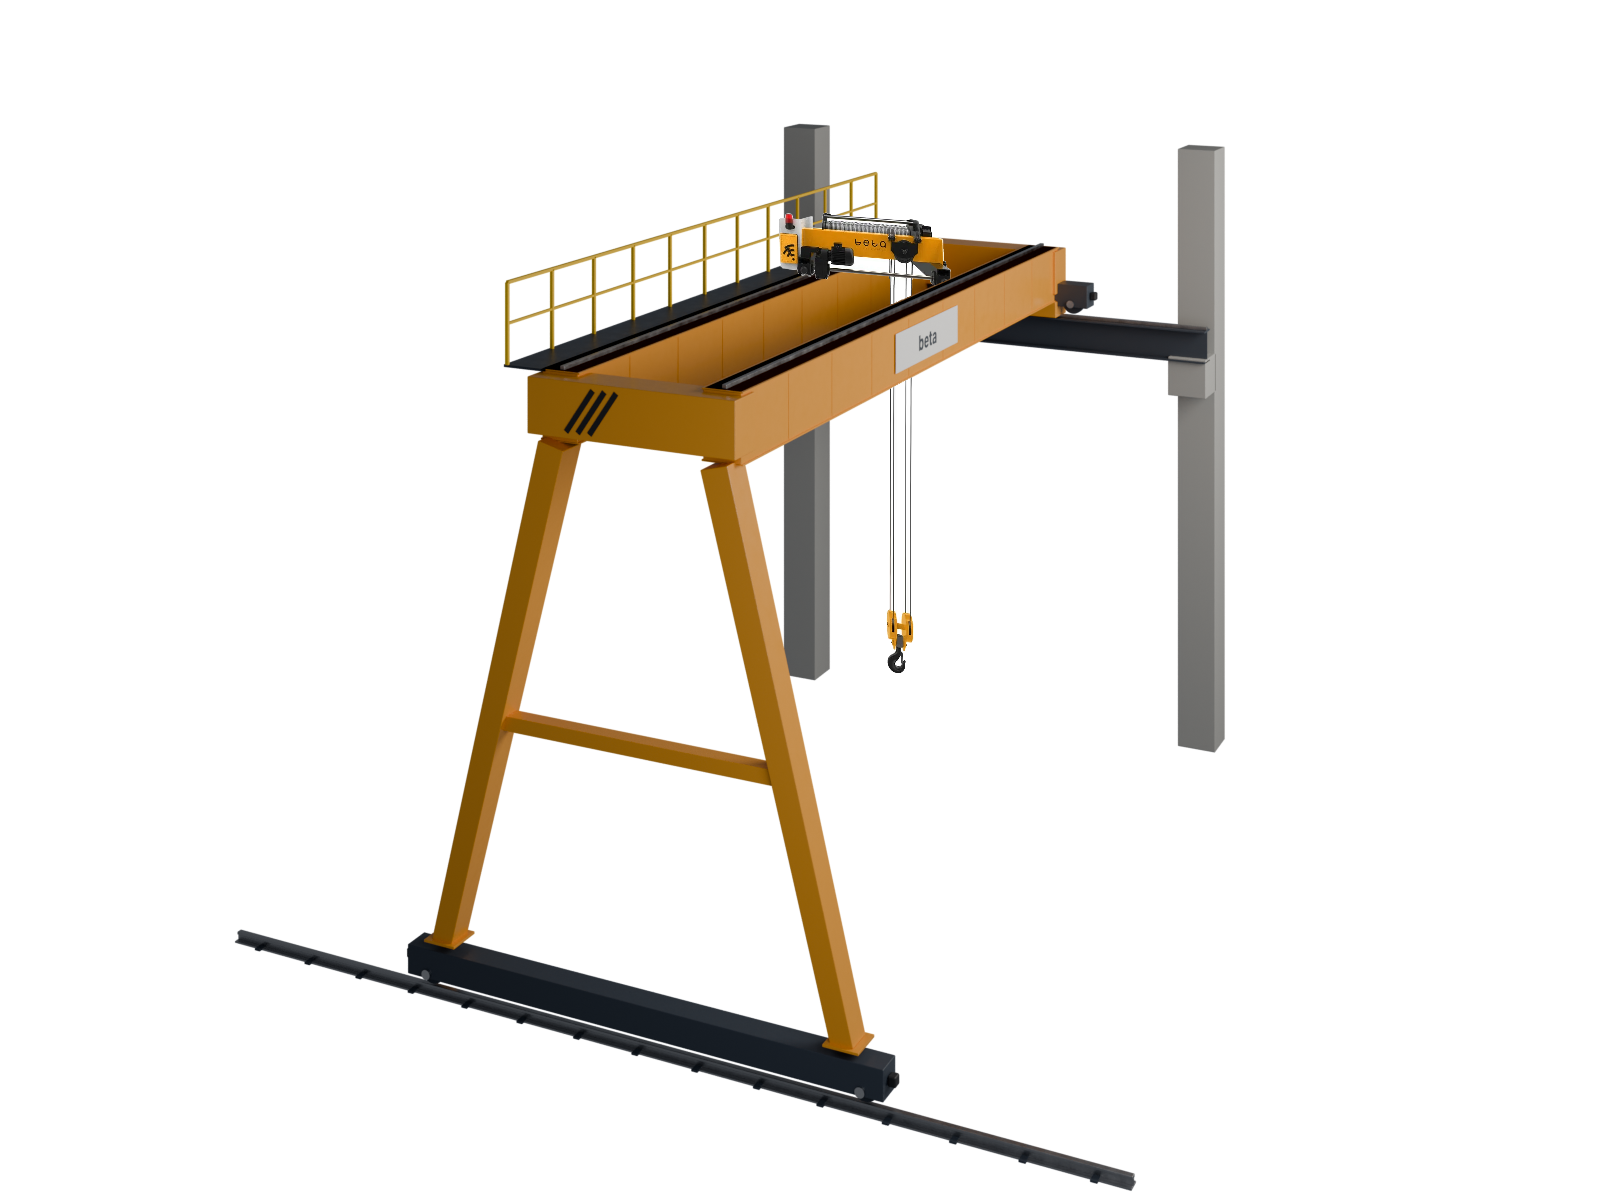
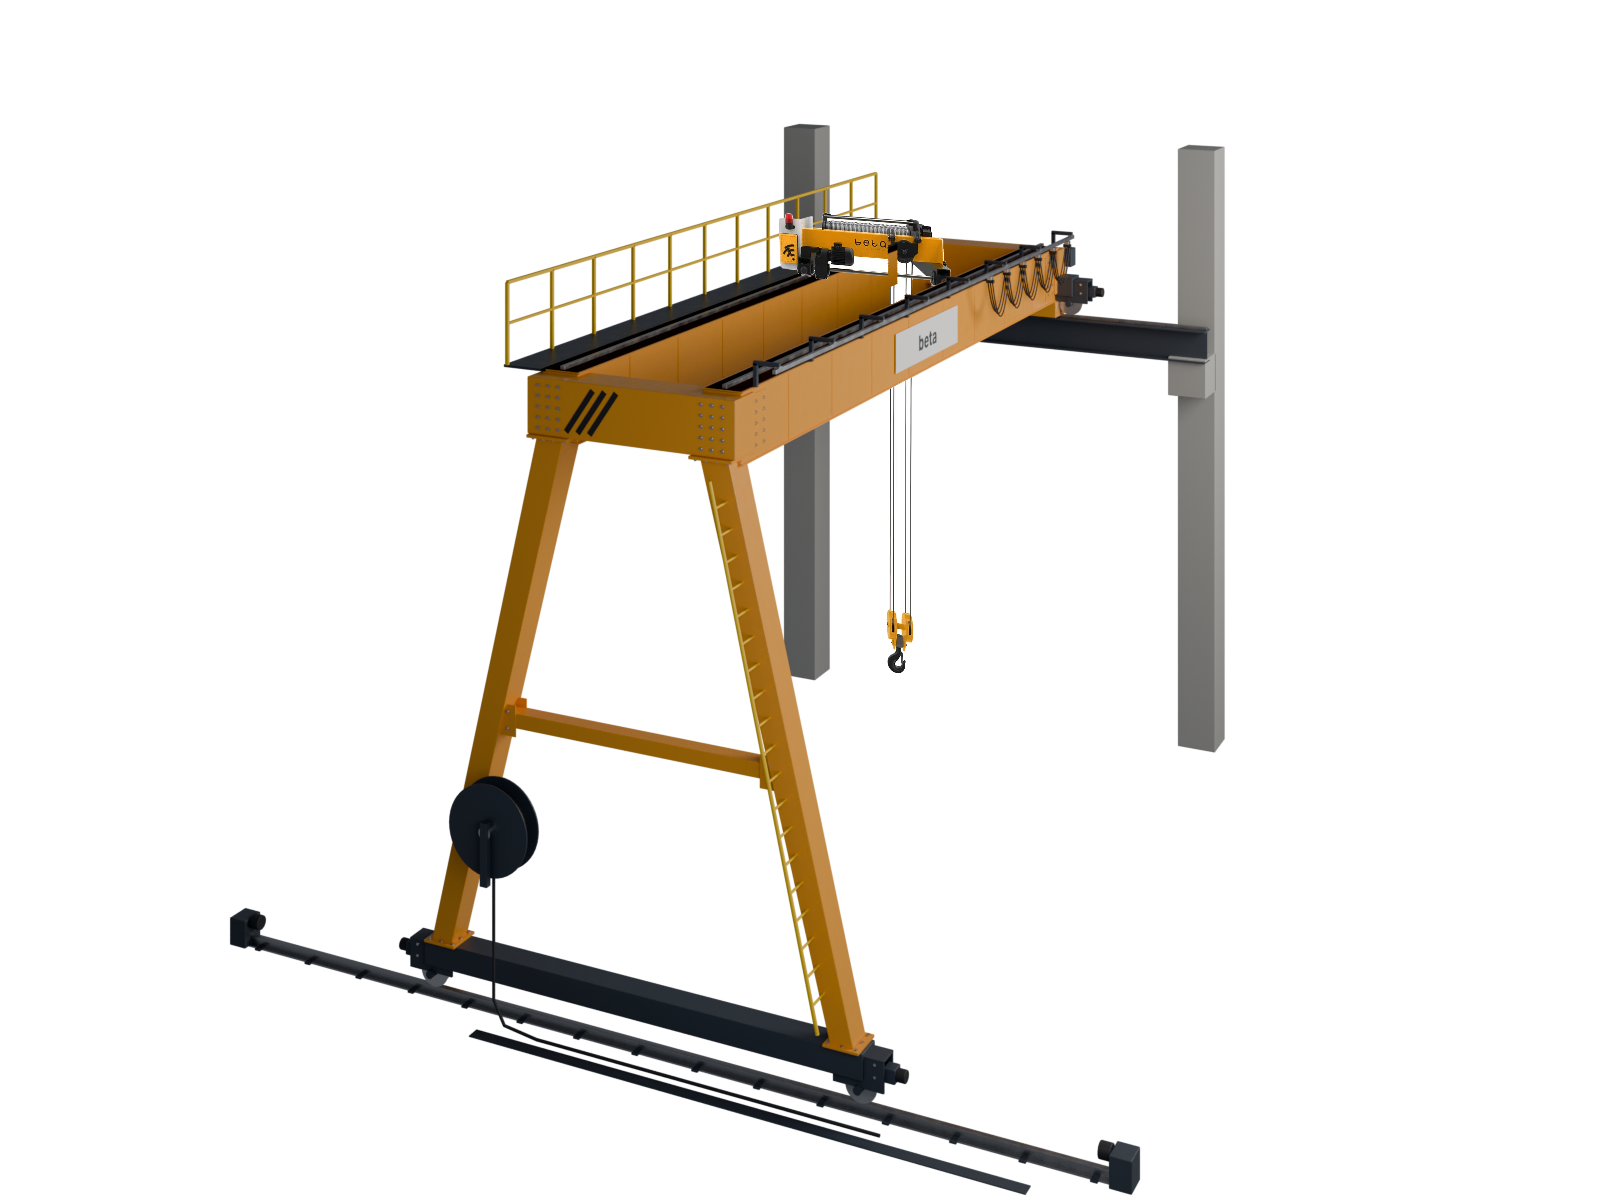
Festoon sistemi, cıvatalı bağlantılar, merdiven, kablo tamburu, tekerlek bloklu baş arabaları
Claude-Session: https://claude.ai/code/session_01BwJWWo6Yo4AefWjfCSnerb

diff --git a/kaynak/render_vincler.py b/kaynak/render_vincler.py
@@ -409,17 +409,28 @@ def kutu_kiris(name, x0, x1, y, z_ust, h, b, M, parent, logo_yuzu=False):
 
 
 def bas_araba(name, x, y0, y1, M, parent, z=0.0):
-    """Ray üzerinde tekerlekli baş arabası (Y doğrultusunda)."""
+    """Ray üzerinde baş arabası (Y doğrultusunda): ana kutu + iki tekerlek bloğu, tahrik grubu, tamponlar."""
     L = y1 - y0
     cy = (y0 + y1) / 2
-    kutu(name, (0.34, L, 0.36), (x, cy, z + 0.33), M["antrasit"], parent, bevel=0.01)
+    kutu(name, (0.34, L - 0.5, 0.30), (x, cy, z + 0.47), M["antrasit"], parent, bevel=0.01)
     for sy in (-1, 1):
-        yy = cy + sy * (L / 2 - 0.28)
-        silindir(f"{name}_tek{sy}", 0.17, 0.10, (x, yy, z + 0.20), M["antrasit"], parent, axis="X", bevel=0.006)
-        silindir(f"{name}_gobek{sy}", 0.06, 0.38, (x, yy, z + 0.20), M["celik"], parent, axis="X")
-        kutu(f"{name}_tampon{sy}", (0.12, 0.10, 0.12), (x, cy + sy * (L / 2 + 0.05), z + 0.33), M["siyah"], parent, bevel=0.02)
-    silindir(f"{name}_motor", 0.10, 0.34, (x + 0.30, cy + L / 2 - 0.28, z + 0.36), M["antrasit"], parent, axis="X", bevel=0.01)
-    kutu(f"{name}_red", (0.22, 0.28, 0.30), (x + 0.15, cy + L / 2 - 0.28, z + 0.26), M["turuncu"], parent, bevel=0.02)
+        yy = cy + sy * (L / 2 - 0.32)
+        # tekerlek bloğu: iki yan levha (alt yarıda tekerlek görünür)
+        for sx in (-1, 1):
+            kutu(f"{name}_blok{sy}{sx}", (0.025, 0.62, 0.36), (x + sx * 0.12, yy, z + 0.40), M["antrasit"], parent, bevel=0.004)
+            civata_izgara(f"{name}_blokc{sy}{sx}", (x + sx * 0.133, yy, z + 0.45), (0, 1, 0), (0, 0, 1), 3, 2, 0.2, 0.14,
+                          "X" if sx > 0 else "-X", M, parent, r=0.012)
+        kutu(f"{name}_blokust{sy}", (0.27, 0.62, 0.025), (x, yy, z + 0.57), M["antrasit"], parent, bevel=0.003)
+        silindir(f"{name}_tek{sy}", 0.17, 0.09, (x, yy, z + 0.20), M["celik"], parent, axis="X", bevel=0.004)
+        silindir(f"{name}_tekflans{sy}", 0.19, 0.02, (x - 0.05, yy, z + 0.20), M["celik"], parent, axis="X")
+        silindir(f"{name}_mil{sy}", 0.05, 0.34, (x, yy, z + 0.20), M["antrasit"], parent, axis="X")
+        kutu(f"{name}_tampon_govde{sy}", (0.16, 0.14, 0.16), (x, cy + sy * (L / 2 + 0.03), z + 0.40), M["antrasit"], parent, bevel=0.01)
+        silindir(f"{name}_tampon{sy}", 0.07, 0.12, (x, cy + sy * (L / 2 + 0.15), z + 0.40), M["siyah"], parent, axis="Y", bevel=0.01)
+    # tahrik grubu (motor + redüktör, tekerlek miline akuple)
+    yd = cy + L / 2 - 0.32
+    kutu(f"{name}_red", (0.22, 0.30, 0.30), (x + 0.25, yd, z + 0.30), M["turuncu"], parent, bevel=0.02)
+    silindir(f"{name}_motor", 0.10, 0.32, (x + 0.25, yd - 0.30, z + 0.36), M["antrasit"], parent, axis="Y", bevel=0.01)
+    silindir(f"{name}_fren", 0.105, 0.06, (x + 0.25, yd - 0.48, z + 0.36), M["siyah"], parent, axis="Y", bevel=0.005)
 
 
 def portal_ayak(name, x, y_alt, y_ust, z_alt, z_ust, M, parent):
@@ -434,6 +445,141 @@ def portal_ayak(name, x, y_alt, y_ust, z_alt, z_ust, M, parent):
     zc = z_alt + (z_ust - z_alt) * 0.45
     yc = y_alt + (y_ust - y_alt) * 0.45
     kutu(f"{name}_bag", (0.22, 2 * yc, 0.18), (x, 0, zc), M["turuncu"], parent, bevel=0.008)
+    for sy in (-1, 1):
+        # alt flanş cıvataları (baş arabasına)
+        for i, (dx, dy) in enumerate(((-0.17, -0.17), (0, -0.17), (0.17, -0.17), (0.17, 0), (0.17, 0.17),
+                                       (0, 0.17), (-0.17, 0.17), (-0.17, 0))):
+            civata(f"{name}_altc{sy}{i}", (x + dx, sy * y_alt + dy, z_alt + 0.031), "Z", M, parent, r=0.016)
+        # üst flanş: ayak başlık levhası + cıvatalar (uç kirişe)
+        kutu(f"{name}_ustflans{sy}", (0.60, 0.56, 0.035), (x, sy * y_ust, z_ust - 0.0175), M["turuncu"], parent, bevel=0.004)
+        for i in range(4):
+            for sx in (-1, 1):
+                civata(f"{name}_ustc{sy}{sx}{i}", (x + sx * 0.26, sy * y_ust - 0.21 + i * 0.14, z_ust - 0.036), "-Z", M, parent, r=0.016)
+        # ara bağlantı guse levhaları + cıvatalar
+        yb = sy * (yc - 0.12)
+        for sx in (-1, 1):
+            kutu(f"{name}_guse{sy}{sx}", (0.014, 0.42, 0.38), (x + sx * 0.118, yb, zc), M["turuncu"], parent, bevel=0.002)
+            civata_izgara(f"{name}_gusec{sy}{sx}", (x + sx * 0.126, yb, zc), (0, 1, 0), (0, 0, 1), 2, 2, 0.2, 0.2,
+                          "X" if sx > 0 else "-X", M, parent, r=0.014)
+
+
+
+# ---------------------------------------------------------------- bağlantı ve donanım detayları
+_CIVATA_MESH = {}
+
+
+def civata(name, loc, eksen, M, parent=None, r=0.014):
+    """Pullu altıgen cıvata başı; `eksen` başın baktığı yön ('X','-X','Y','-Y','Z','-Z')."""
+    if "m" not in _CIVATA_MESH:
+        bm = bmesh.new()
+        bmesh.ops.create_cone(bm, cap_ends=True, segments=6, radius1=1.0, radius2=1.0, depth=0.9,
+                              matrix=Matrix.Translation((0, 0, 0.75)))
+        bmesh.ops.create_cone(bm, cap_ends=True, segments=16, radius1=1.45, radius2=1.45, depth=0.3,
+                              matrix=Matrix.Translation((0, 0, 0.15)))
+        me = bm_to_mesh(bm, "civata_bas")
+        me.materials.append(M["celik"])
+        _CIVATA_MESH["m"] = me
+    o = bpy.data.objects.new(name, _CIVATA_MESH["m"])
+    bpy.context.scene.collection.objects.link(o)
+    o.location = loc
+    o.scale = (r, r, r)
+    rot = {"Z": (0, 0, 0), "-Z": (math.pi, 0, 0), "X": (0, math.pi / 2, 0), "-X": (0, -math.pi / 2, 0),
+           "Y": (-math.pi / 2, 0, 0), "-Y": (math.pi / 2, 0, 0)}[eksen]
+    o.rotation_euler = rot
+    o.parent = parent
+    return o
+
+
+def civata_izgara(name, merkez, u, v, nu, nv, au, av, eksen, M, parent=None, r=0.014):
+    """merkez etrafında u, v doğrultularında nu x nv cıvata dizisi."""
+    c, u, v = Vector(merkez), Vector(u), Vector(v)
+    for i in range(nu):
+        for j in range(nv):
+            p = c + u * ((i - (nu - 1) / 2) * au) + v * ((j - (nv - 1) / 2) * av)
+            civata(f"{name}_{i}_{j}", p, eksen, M, parent, r)
+
+
+def kablo(name, noktalar, r, mat, parent=None):
+    cu = bpy.data.curves.new(name, "CURVE")
+    cu.dimensions = "3D"
+    cu.bevel_depth = r
+    cu.bevel_resolution = 3
+    cu.use_fill_caps = True
+    sp = cu.splines.new("POLY")
+    sp.points.add(len(noktalar) - 1)
+    for pt, q in zip(sp.points, noktalar):
+        pt.co = (q[0], q[1], q[2], 1.0)
+    o = bpy.data.objects.new(name, cu)
+    bpy.context.scene.collection.objects.link(o)
+    cu.materials.append(mat)
+    o.parent = parent
+    return o
+
+
+def festoon(name, x0, x1, y, z, x_sabit, x_araba, M, parent, n=6, L=1.7, y_konsol=None, z_konsol=None, aralik=1.4):
+    """C raylı festoon kablo sistemi: ray, konsollar, kablo arabaları ve sarkan yassı kablolar.
+
+    x_sabit: kabloların sabit (besleme) ucu, x_araba: vinç arabasının yanındaki çekme arabası.
+    y_konsol/z_konsol: konsolların kirişe/boma bağlandığı nokta.
+    """
+    L_ray = x1 - x0
+    kutu(f"{name}_ray", (L_ray, 0.05, 0.05), ((x0 + x1) / 2, y, z), M["galvaniz"], parent, bevel=0.004)
+    kutu(f"{name}_ray_yarik", (L_ray, 0.012, 0.006), ((x0 + x1) / 2, y, z - 0.024), M["siyah"], parent, bevel=0.0)
+    if y_konsol is not None:
+        k = max(2, int(L_ray / aralik) + 1)
+        for i in range(k):
+            xk = x0 + 0.1 + i * (L_ray - 0.2) / (k - 1)
+            yk_, zk = y_konsol, z_konsol
+            # dikey ayak + yatay kol + rayı tutan kelepçe
+            kutu(f"{name}_konsol_ayak{i}", (0.05, 0.05, abs(z + 0.06 - zk)), (xk, yk_, (z + 0.06 + zk) / 2), M["antrasit"], parent, bevel=0.003)
+            kutu(f"{name}_konsol_kol{i}", (0.05, abs(yk_ - y) + 0.05, 0.05), (xk, (yk_ + y) / 2, z + 0.06), M["antrasit"], parent, bevel=0.003)
+            kutu(f"{name}_kelepce{i}", (0.07, 0.07, 0.02), (xk, y, z + 0.035), M["galvaniz"], parent, bevel=0.002)
+            civata(f"{name}_konsol_c{i}", (xk, y, z + 0.047), "Z", M, parent, r=0.009)
+    # kablo arabaları
+    yon = 1 if x_araba > x_sabit else -1
+    xs = [x_sabit + yon * 0.12 + i * (x_araba - x_sabit - yon * 0.12) / (n - 1) for i in range(n)]
+    for i, xa in enumerate(xs):
+        kutu(f"{name}_araba{i}", (0.10, 0.07, 0.05), (xa, y, z - 0.055), M["galvaniz"], parent, bevel=0.006)
+        kutu(f"{name}_tutucu{i}", (0.05, 0.12, 0.05), (xa, y, z - 0.105), M["siyah"], parent, bevel=0.008)
+    # sarkan kablolar (parabolik sehim, kablo boyu L sabit)
+    for i in range(n - 1):
+        a, b = xs[i], xs[i + 1]
+        s_ = abs(b - a)
+        d = math.sqrt(max(0.0, 3 * s_ * (L - s_) / 8))
+        for k, dy in enumerate((-0.035, 0.0, 0.035)):
+            pts = []
+            for t in range(17):
+                tt = t / 16
+                pts.append((a + (b - a) * tt, y + dy, z - 0.13 - 4 * d * tt * (1 - tt) * (1 - 0.06 * k)))
+            kablo(f"{name}_kablo{i}_{k}", pts, 0.011, M["siyah"], parent)
+    # sabit uçta buat kutusu
+    kutu(f"{name}_buat", (0.22, 0.12, 0.28), (x_sabit, y, z - 0.30), M["antrasit"], parent, bevel=0.01)
+    return xs
+
+
+def merdiven(name, p_alt, p_ust, genislik, M, parent, yan=Vector((0, 1, 0)), adim=0.3):
+    p0, p1 = Vector(p_alt), Vector(p_ust)
+    yan = Vector(yan).normalized() * (genislik / 2)
+    for sy in (-1, 1):
+        boru(f"{name}_dikme{sy}", p0 + yan * sy, p1 + yan * sy, 0.022, M["sari"], parent, seg=12)
+    n = int((p1 - p0).length / adim)
+    for i in range(1, n):
+        q = p0 + (p1 - p0) * (i / n)
+        boru(f"{name}_basamak{i}", q - yan, q + yan, 0.014, M["sari"], parent, seg=10)
+
+
+def kablo_tamburu(name, loc, M, parent, eksen="X"):
+    x, y, z = loc
+    silindir(f"{name}_flans1", 0.55, 0.02, (x - 0.12, y, z), M["antrasit"], parent, axis=eksen, bevel=0.004)
+    silindir(f"{name}_flans2", 0.55, 0.02, (x + 0.12, y, z), M["antrasit"], parent, axis=eksen, bevel=0.004)
+    silindir(f"{name}_sarim", 0.42, 0.22, (x, y, z), M["siyah"], parent, axis=eksen)
+    silindir(f"{name}_gobek", 0.08, 0.40, (x, y, z), M["celik"], parent, axis=eksen)
+    kutu(f"{name}_motor", (0.28, 0.26, 0.26), (x + 0.30, y, z), M["turuncu"], parent, bevel=0.02)
+    kutu(f"{name}_konsol", (0.08, 0.10, 0.75), (x - 0.18, y, z - 0.25), M["antrasit"], parent, bevel=0.004)
+    # kablo tamburun altından zemindeki kablo kanalına iner
+    kablo(f"{name}_kablo", [(x, y, z - 0.42), (x, y, 0.35), (x, y - 0.15, 0.08), (x, y - 0.6, 0.02), (x, y - 5.0, 0.02)],
+          0.018, M["siyah"], parent)
+    kutu(f"{name}_kanal", (0.16, 7.0, 0.012), (x, y - 3.2, -0.115), M["antrasit"], parent, bevel=0.002)
 
 
 # ---------------------------------------------------------------- hol ortamı
@@ -813,7 +959,11 @@ def sahne_duvar_pergel(M):
     boru("gergi", p1, p2, 0.048, M["turuncu"], g)
     kutu("gergi_ust_kulak", (0.16, 0.10, 0.08), (2.3, 0, zb - 0.34), M["antrasit"], g, bevel=0.008)
     silindir("gergi_ust_pim", 0.025, 0.14, (2.3, 0, zb - 0.36), M["celik"], g, axis="Y")
-    foto_vinc("zincirli_vinc_2ton.png", g, (3.25, 0, zb - 0.282), 1.25, capa=0.62, dikey=0.165)  # tekerlekler alt flanşta
+    civata_izgara("bom_kok_c", (0.14, -0.132, zb - 0.16), (1, 0, 0), (0, 0, 1), 2, 3, 0.12, 0.11, "-Y", M, g, r=0.013)
+    festoon("festoon", 0.3, 4.1, -0.27, zb + 0.07, 0.4, 3.25 - 0.42, M, g, n=5, L=1.1,
+            y_konsol=-0.07, z_konsol=zb, aralik=1.2)
+    foto_vinc("zincirli_vinc_2ton.png", g, (3.25, 0, zb - 0.282), 1.25, capa=0.62, dikey=0.165,
+              arkasinda=("festoon",))  # tekerlekler alt flanşta
     if not BEYAZ:
         palet(M, (4.6, 0.1, 0), 0.35)
     if YAN:
@@ -856,7 +1006,14 @@ def sahne_kolon_pergel(M):
     silindir("alt_bilezik", 0.205, 0.14, (0, 0, H - 0.75), M["antrasit"], g, seg=64, bevel=0.01)
     boru("gergi", (0.2, 0, H - 0.75), (2.3, 0, zb - 0.30), 0.048, M["turuncu"], g)
     kutu("gergi_ust_kulak", (0.16, 0.10, 0.08), (2.3, 0, zb - 0.34), M["antrasit"], g, bevel=0.008)
-    foto_vinc("kompakt_vinc.png", g, (3.45, 0, zb - 0.282), 1.10, capa=0.66, dikey=0.235)  # tekerlekler alt flanşta
+    civata_izgara("bom_kok_c", (0.22, -0.132, zb - 0.18), (1, 0, 0), (0, 0, 1), 2, 3, 0.11, 0.11, "-Y", M, g, r=0.013)
+    for i in range(10):
+        a_ = i * 2 * math.pi / 10
+        civata(f"bilezik_c{i}", (0.192 * math.cos(a_), 0.192 * math.sin(a_), H + 0.14), "Z", M, None, r=0.012)
+    festoon("festoon", 0.35, 4.3, -0.27, zb + 0.07, 0.45, 3.45 - 0.45, M, g, n=5, L=1.1,
+            y_konsol=-0.07, z_konsol=zb, aralik=1.2)
+    foto_vinc("kompakt_vinc.png", g, (3.45, 0, zb - 0.282), 1.10, capa=0.66, dikey=0.235,
+              arkasinda=("festoon",))  # tekerlekler alt flanşta
     if not BEYAZ:
         palet(M, (4.4, -0.6, 0), 0.3)
     if YAN:
@@ -936,13 +1093,44 @@ def portal_govde(M, g, span, z_ust, h, cift_ayak=True, ray_ust=0.0, kanca_z=1.6,
     else:
         ya = yk + 1.6 if yk > 1 else 1.7
         yu = yk if yk > 1 else 0.55
+        z_ayak = z_ust - 0.85 * h  # uç kirişin alt yüzü
         for ad, x in (("sol", 0.0), ("sag", span)) if cift_ayak else (("sol", 0.0),):
-            portal_ayak(f"ayak_{ad}", x, ya, yu, 0.62, zl, M, g)
+            portal_ayak(f"ayak_{ad}", x, ya, yu, 0.62, z_ayak, M, g)
             bas_araba(f"bas_{ad}", x, -ya - 0.5, ya + 0.5, M, g, z=ray_ust)
+        # uç kiriş - ana kiriş birleşimi: alın cıvataları ve yan ek levhaları
+        bkal = 0.5 if yk > 1 else 0.42
+        for x in (0.0, span):
+            sx = 1 if x > 0 else -1
+            for sy in (-1, 1):
+                civata_izgara(f"uc_birlesim{x:g}{sy}", (x + sx * 0.252, sy * yk, z_ust - h * 0.45), (0, 1, 0), (0, 0, 1),
+                              3, 5, 0.14, h * 0.15, "X" if sx > 0 else "-X", M, g, r=0.015)
+                yy = sy * (yk + bkal / 2 + 0.008)
+                kutu(f"ek_levha{x:g}{sy}", (0.36, 0.014, h * 0.82), (x - sx * 0.43, yy, z_ust - h / 2), M["turuncu"], g, bevel=0.003)
+                civata_izgara(f"ek_levhac{x:g}{sy}", (x - sx * 0.43, yy + sy * 0.008, z_ust - h / 2), (1, 0, 0), (0, 0, 1),
+                              2, 5, 0.2, h * 0.15, "Y" if sy > 0 else "-Y", M, g, r=0.014)
+        # ray sonu tamponları
+        for x in ((0.0, span) if cift_ayak else (0.0,)):
+            for sy in (-1, 1):
+                kutu(f"ray_stop{x:g}{sy}", (0.3, 0.25, 0.35), (x, sy * (RAY - 0.1), 0.175), M["antrasit"], bevel=0.01)
+                silindir(f"ray_tampon{x:g}{sy}", 0.09, 0.14, (x, sy * (RAY - 0.3), 0.3), M["siyah"], axis="Y", bevel=0.01)
+        if yakin_x is not None:
+            # yakın uçtaki ön ayakta merdiven, yakın ayakta besleme kablo tamburu
+            sxn = 1 if yakin_x > 0 else -1
+            dis = sxn * 0.28
+            merdiven("merdiven", (yakin_x + dis, -ya + 0.15, 0.9), (yakin_x + dis, -yu - 0.1, z_ayak - 0.2), 0.42, M, g,
+                     yan=Vector((1, 0, 0)))
+            kablo_tamburu("tambur", (yakin_x + sxn * 0.55, ya * 0.62, 2.4), M, g)
+        # festoon (ön kirişin dış yanında): sabit uç uzak kiriş başında, çekme arabası vinç arabasının yanında
+        if foto:
+            yf = -(yk + bkal / 2 + 0.32)
+            x_tr = span * (0.36 if (yakin_x or 0) > 0 else 0.58)
+            x_sabit = 0.35 if (yakin_x or 0) > 0 else span - 0.35
+            festoon("festoon", 0.2, span - 0.2, yf, z_ust + 0.22, x_sabit, x_tr + (-0.75 if x_tr > x_sabit else 0.75),
+                    M, g, n=6, L=1.8, y_konsol=-(yk + bkal / 2 + 0.03), z_konsol=z_ust)
     if foto:
         # Beta halatlı vinç arabası fotoğrafı: iki kirişin raylarına basar
         dosya, yuk, capa, dikey = foto
-        onunde = ["kiris_on"]
+        onunde = ["kiris_on", "festoon", "ek_levha"]
         if yakin_x is not None:
             onunde += [f"bas_kirisi{yakin_x:g}", "ayak_sag" if yakin_x > 0 else "ayak_sol"]
         xa = span * (0.36 if (yakin_x or 0) > 0 else 0.58)
